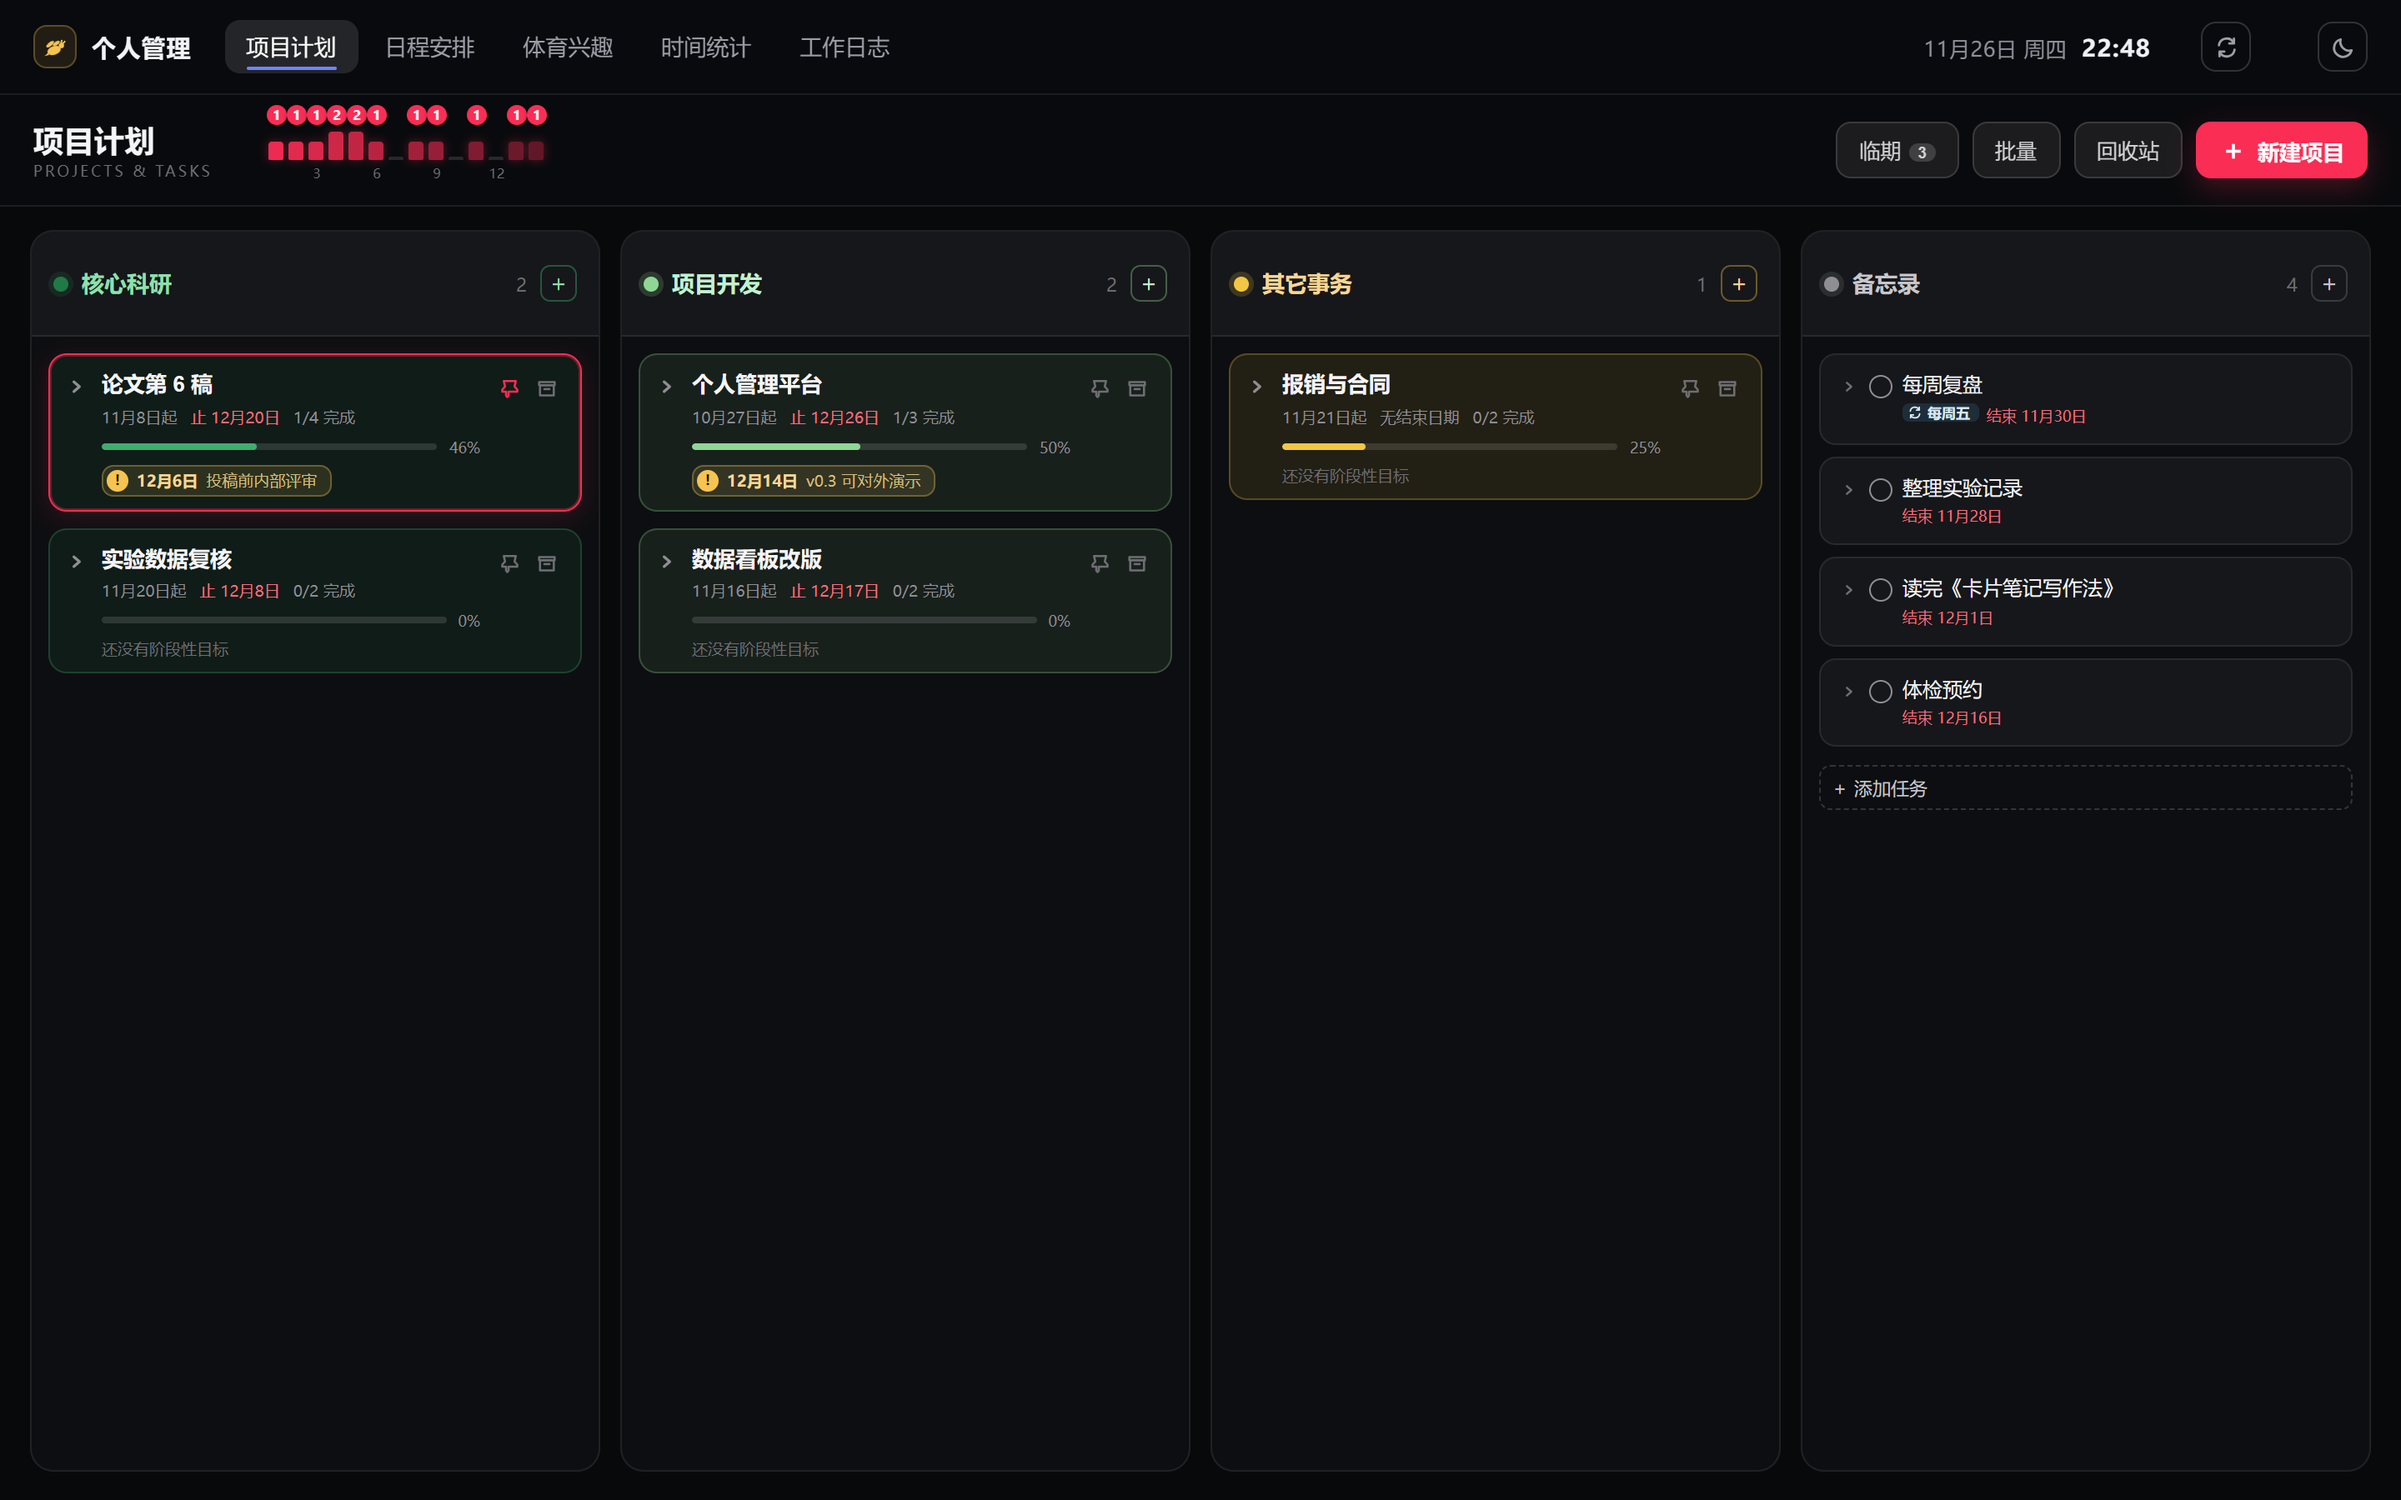
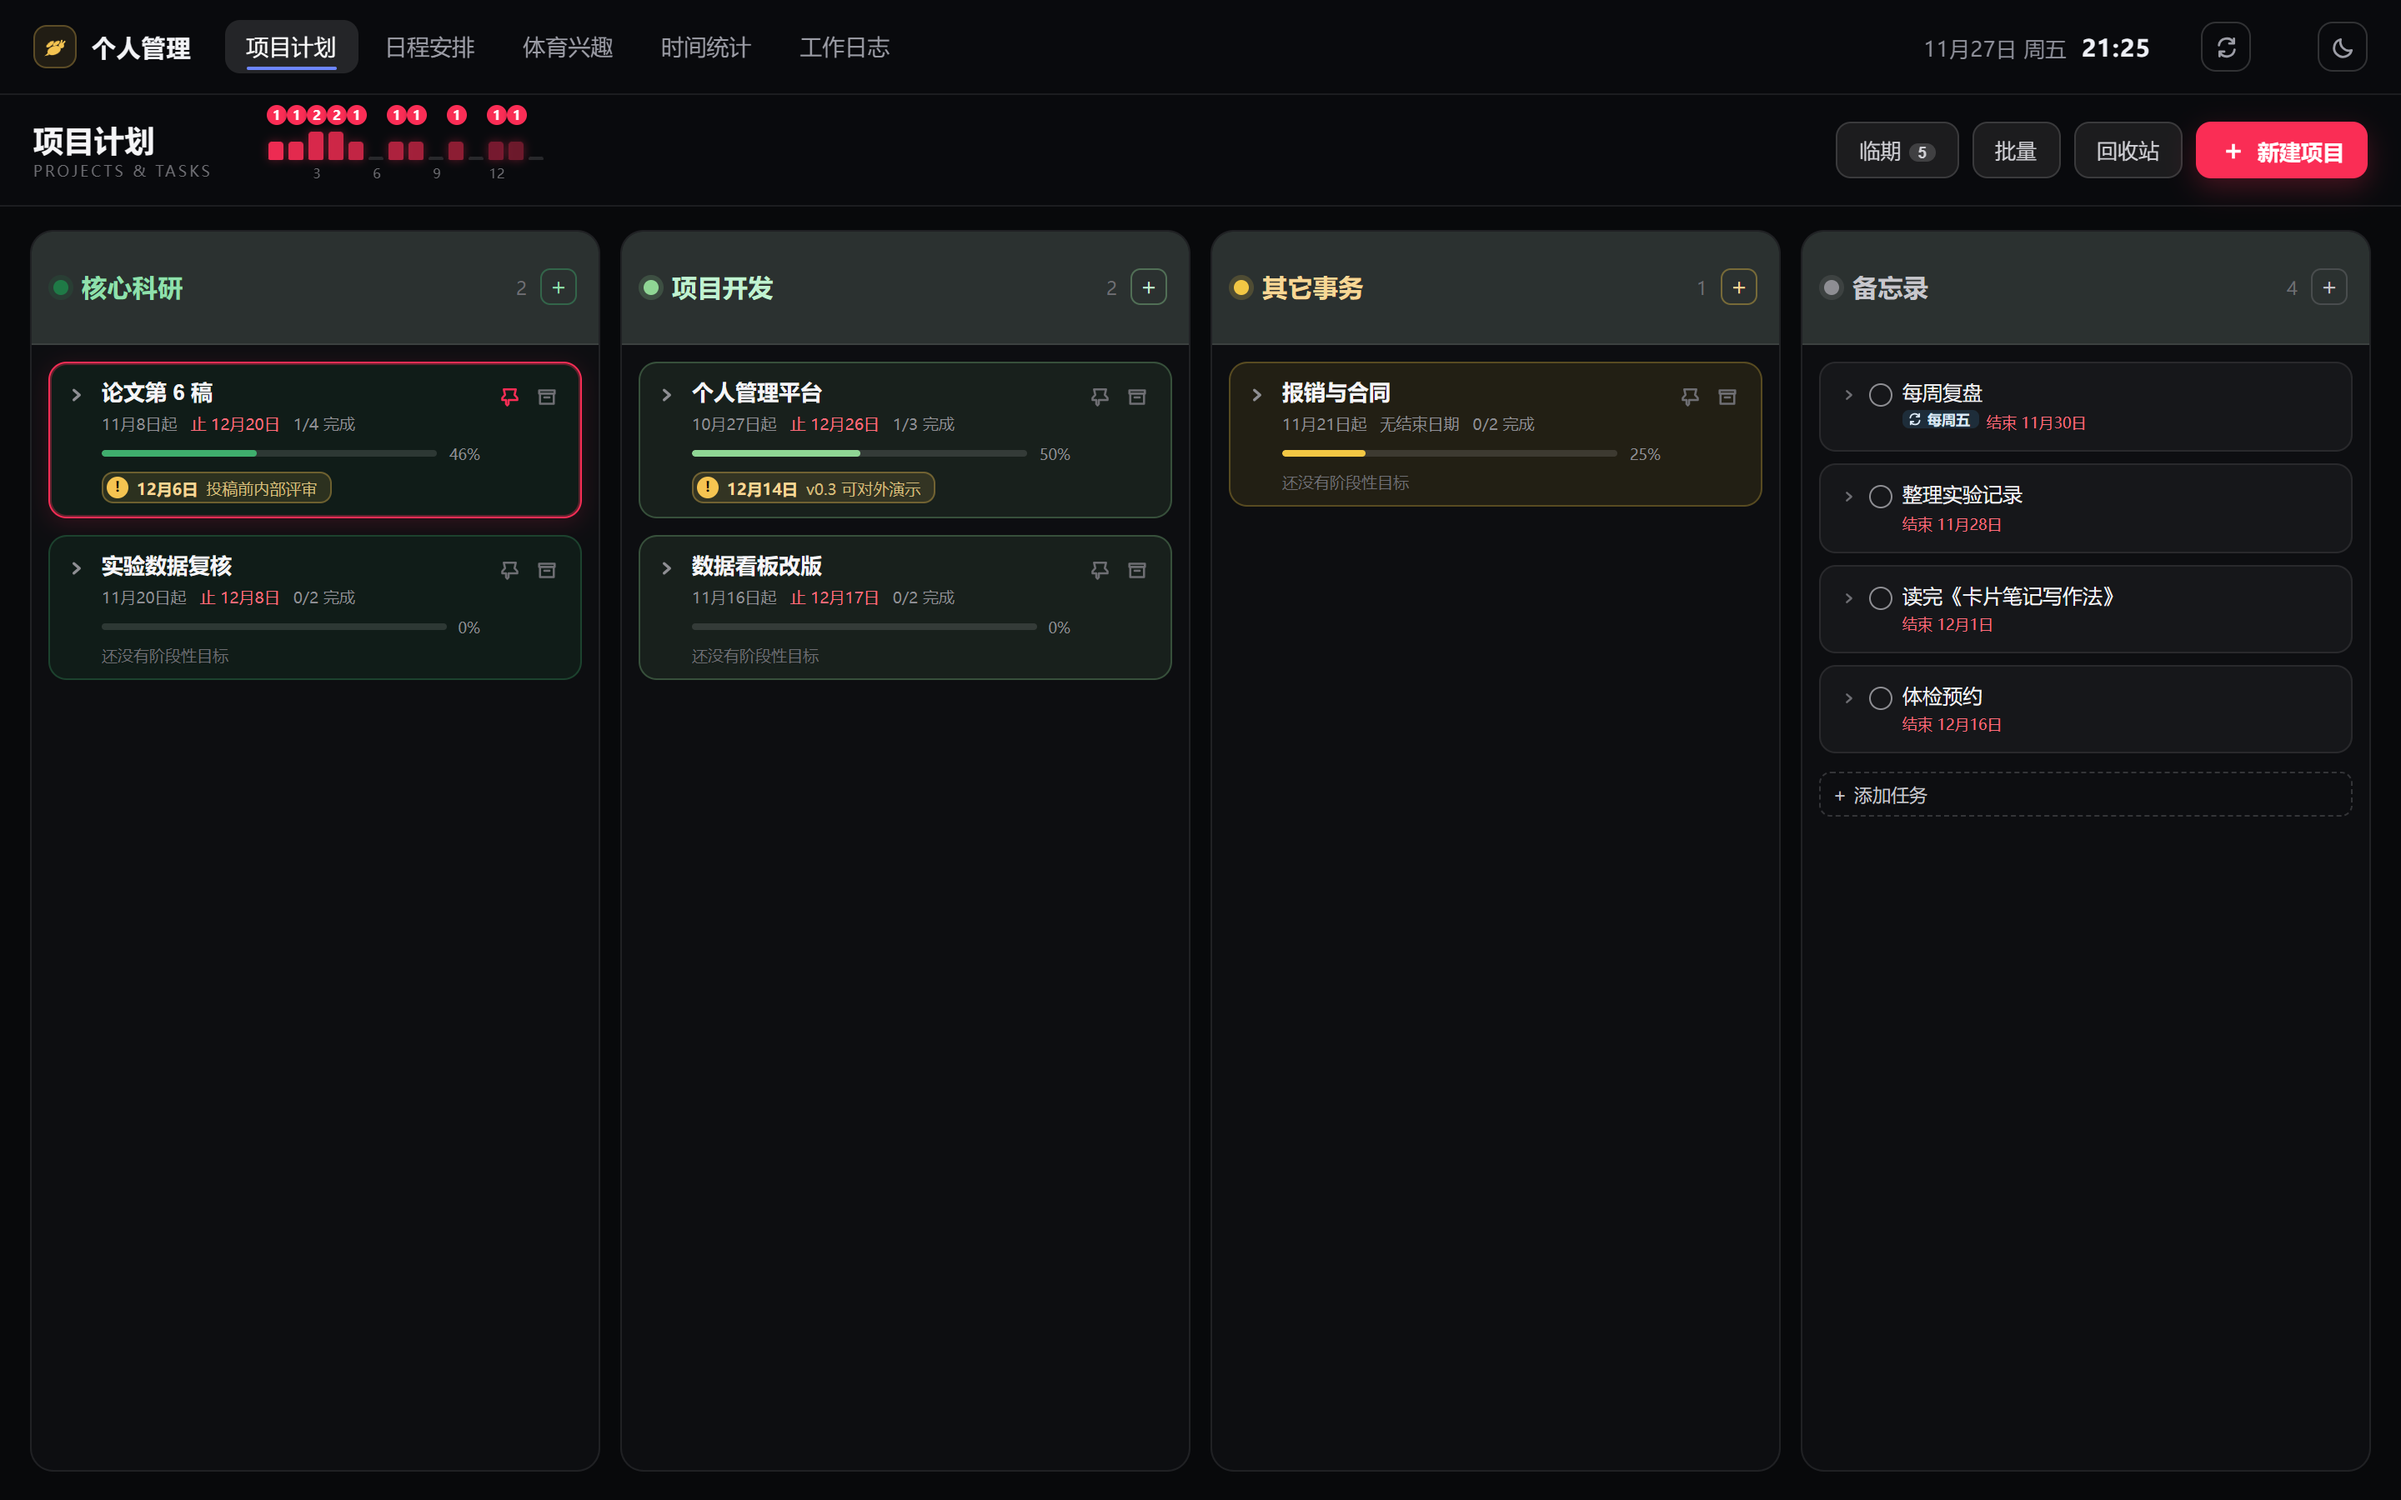
style: 四列列头统一淡绿底，标题与圆点保留分类色，字号加大

Changed region(s): [[0.0, 0.1556, 1.0, 0.56], [0.125, 0.0622, 0.25, 0.1244]]

diff --git a/static/planner.css b/static/planner.css
@@ -132,10 +132,11 @@ body.planner-page {
   gap: 8px;
   padding: 11px 13px;
   border-bottom: 1px solid var(--pl-line);
-  background: var(--mx-fill-weak);
+  /* 四列统一淡绿底，各列只靠标题和圆点区分颜色 */
+  background: color-mix(in srgb, #1f7a46 7%, var(--mx-panel));
 }
 .col-dot { width: 9px; height: 9px; border-radius: 50%; background: var(--cat); box-shadow: 0 0 0 3px color-mix(in srgb, var(--cat) 18%, transparent); }
-.col-head h2 { flex: 1; color: var(--cat-text); font-size: 13.5px; font-weight: 600; }
+.col-head h2 { flex: 1; color: var(--cat-text); font-size: 15px; font-weight: 600; letter-spacing: .2px; }
 .col-count { color: var(--pl-soft); font-size: 11px; font-variant-numeric: tabular-nums; }
 .col-add {
   width: 22px;

diff --git a/static/theme.css b/static/theme.css
@@ -133,9 +133,10 @@ html[data-theme="light"] .plan-col {
   background: color-mix(in srgb, var(--cat-bright) 5%, #f7f8fa);
   border-color: color-mix(in srgb, var(--cat-bright) 24%, #e4e6ec);
 }
+/* 四列列头统一淡绿底，颜色只留给标题和圆点 */
 html[data-theme="light"] .col-head {
-  background: color-mix(in srgb, var(--cat-bright) 9%, transparent);
-  border-bottom-color: color-mix(in srgb, var(--cat-bright) 20%, #e4e6ec);
+  background: color-mix(in srgb, #1f7a46 7%, #f7f8fa);
+  border-bottom-color: color-mix(in srgb, #1f7a46 18%, #e4e6ec);
 }
 html[data-theme="light"] .proj {
   background: color-mix(in srgb, var(--cat-bright) 10%, #ffffff);

diff --git a/templates/planner.html b/templates/planner.html
@@ -6,7 +6,7 @@
   <meta name="theme-color" content="#08090b">
   <meta name="color-scheme" content="dark">
   <title>项目计划 · 个人管理</title>
-  <link rel="stylesheet" href="/static/planner.css?v=20">
+  <link rel="stylesheet" href="/static/planner.css?v=21">
   <link rel="stylesheet" href="/static/nav.css?v=6">
   <script defer src="/static/nav.js?v=7"></script>
   {% include "_theme.html" %}
